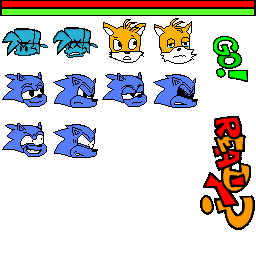
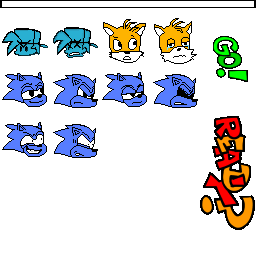
clouds!

Changed region(s): [[0.0, 0.0, 1.0, 0.0625]]

diff --git a/src/stage/chapter2.c b/src/stage/chapter2.c
@@ -17,8 +17,7 @@ typedef struct
 	
 	//Textures
 	Gfx_Tex tex_back0; //Background
-	Gfx_Tex tex_back1; //Window
-	Gfx_Tex tex_back2; //Lightning window
+	Gfx_Tex tex_cloud; //Cloud
 } Back_Chapter2;
 
 static void DrawGrass(Gfx_Tex tex, RECT_FIXED grass_dst)
@@ -51,7 +50,6 @@ void Back_Chapter2_DrawBG(StageBack *back)
 	
 	fixed_t fx, fy;
 
-	//draw plant
 	fx = stage.camera.x;
 	fy = stage.camera.y;
 
@@ -117,6 +115,38 @@ void Back_Chapter2_DrawBG(StageBack *back)
 		tree_dst.x = FIXED_DEC(235,1) - fx;
 	Stage_DrawTex(&this->tex_back0, &tree_src, &tree_dst, stage.camera.bzoom);
 	DrawGrass(this->tex_back0, grass_dst);
+
+	fx = stage.camera.x;
+	fy = stage.camera.y;
+
+	//draw clouds
+	RECT cloud1_src = {2, 6, 193, 75};
+	RECT_FIXED cloud1_dst = {
+	FIXED_DEC(-51,1) - fx, 
+	FIXED_DEC(-117,1) - fy, 
+	FIXED_DEC(199,1),
+	FIXED_DEC(97,1)
+	};
+
+	if (stage.widescreen)
+		cloud1_dst.x = FIXED_DEC(55,1) - fx;
+	
+	Debug_StageMoveDebug(&cloud1_dst, 5, stage.camera.x, stage.camera.y);
+	Stage_DrawTex(&this->tex_cloud, &cloud1_src, &cloud1_dst, stage.camera.bzoom);
+
+	RECT cloud2_src = {25,105, 142, 44};
+	RECT_FIXED cloud2_dst = {
+	FIXED_DEC(-281,1) - fx, 
+	FIXED_DEC(-84,1) - fy, 
+	FIXED_DEC(142,1),
+	FIXED_DEC(44,1)
+	};
+
+	if (stage.widescreen)
+		cloud2_dst.x = FIXED_DEC(-368,1) - fx;
+	
+	Debug_StageMoveDebug(&cloud2_dst, 6, stage.camera.x, stage.camera.y);
+	Stage_DrawTex(&this->tex_cloud, &cloud2_src, &cloud2_dst, stage.camera.bzoom);
 }
 
 void Back_Chapter2_Free(StageBack *back)
@@ -143,6 +173,7 @@ StageBack *Back_Chapter2_New(void)
 	//Load background textures
 	IO_Data arc_back = IO_Read("\\CH2\\BACK.ARC;1");
 	Gfx_LoadTex(&this->tex_back0, Archive_Find(arc_back, "back0.tim"), 0);
+	Gfx_LoadTex(&this->tex_cloud, Archive_Find(arc_back, "cloud.tim"), 0);
 	Mem_Free(arc_back);
 
 	Gfx_SetClear(154, 217, 234);

diff --git a/src/character/sonic.c b/src/character/sonic.c
@@ -187,15 +187,24 @@ void Char_Sonic_Tick(Character *character)
 
 	//mad boi
 	if ((stage.song_beat >= 211 && stage.song_beat <= 218) || (stage.song_beat >= 288 && stage.song_beat <= 351) || (stage.song_beat >= 416))
+	{
+	this->character.health_i = 3;
 	Animatable_Animate(&character->animatableB, (void*)this, Char_Sonic_SetFrame);
+	}
 
 	//forced boi
 	else if ((stage.song_beat >= 351 && stage.song_beat <= 416))
+	{
+	this->character.health_i = 4;
 	Animatable_Animate(&character->animatableC, (void*)this, Char_Sonic_SetFrame);
+	}
 
 	//good boi
 	else
+	{
+	this->character.health_i = 2;
 	Animatable_Animate(&character->animatable, (void*)this, Char_Sonic_SetFrame);
+	}
 
 	Character_Draw(character, &this->tex, &char_sonic_frame[this->frame]);
 }
@@ -247,6 +256,8 @@ Character *Char_Sonic_New(fixed_t x, fixed_t y)
 	this->character.focus_x = FIXED_DEC(25,1);
 	this->character.focus_y = FIXED_DEC(-115,1);
 	this->character.focus_zoom = FIXED_DEC(1,1);
+
+	this->character.health_bar = 0xFF577DFF;
 	
 	//Load art
 	this->arc_main = IO_Read("\\CHAR\\SONIC.ARC;1");

diff --git a/src/character/tails.c b/src/character/tails.c
@@ -139,6 +139,8 @@ Character *Char_tails_New(fixed_t x, fixed_t y)
 	this->character.focus_x = FIXED_DEC(45,1);
 	this->character.focus_y = FIXED_DEC(-115,1);
 	this->character.focus_zoom = FIXED_DEC(1,1);
+
+	this->character.health_bar = 0xFFFEB300;
 	
 	//Load art
 	this->arc_main = IO_Read("\\CHAR\\TAILS.ARC;1");

diff --git a/src/character/bf.c b/src/character/bf.c
@@ -413,6 +413,8 @@ Character *Char_BF_New(fixed_t x, fixed_t y)
 	this->character.focus_x = FIXED_DEC(-50,1);
 	this->character.focus_y = FIXED_DEC(-65,1);
 	this->character.focus_zoom = FIXED_DEC(1,1);
+
+	this->character.health_bar = 0xFF29B0D2;
 	
 	//Load art
 	this->arc_main = IO_Read("\\CHAR\\BF.ARC;1");
